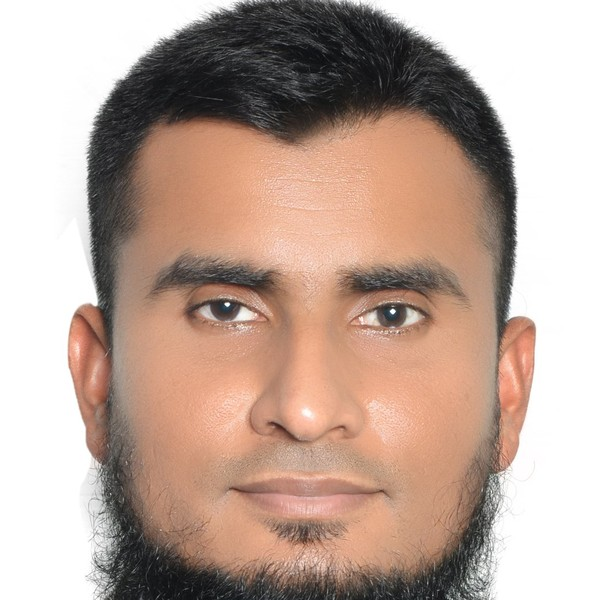
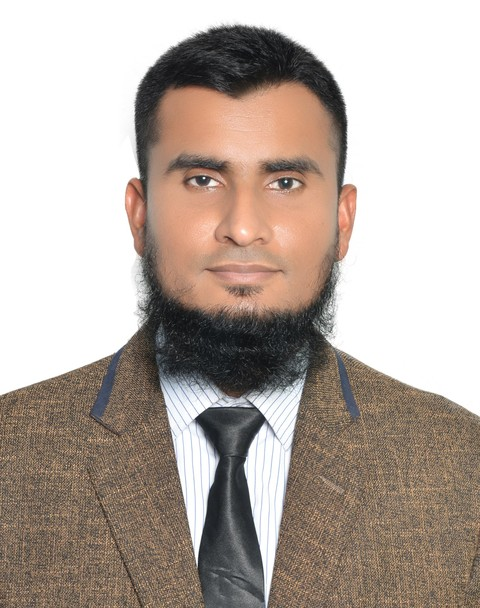
Show full developer photo in portrait frames
Claude-Session: https://claude.ai/code/session_01BS46CpVzowEovSaW9v9832

diff --git a/index.html b/index.html
@@ -62,7 +62,7 @@
 
   <div class="dev-ribbon">
     <div class="in">
-      <img class="avatar" src="assets/img/developer.jpg" alt="এনামুল হক" width="54" height="54" />
+      <img class="avatar" src="assets/img/developer.jpg" alt="এনামুল হক" width="54" height="68" />
       <div>
         <small>ডেভেলপ করেছেন</small>
         <b id="dev-name">এনামুল হক</b>
@@ -325,7 +325,7 @@
   </a>
 
   <footer class="footer">
-    <img class="dev-photo" src="assets/img/developer.jpg" alt="এনামুল হক" width="84" height="84" loading="lazy" />
+    <img class="dev-photo" src="assets/img/developer.jpg" alt="এনামুল হক" width="100" height="127" loading="lazy" />
     <div>ডিজাইন ও ইঞ্জিনিয়ারিং</div>
     <div class="devname">এনামুল হক</div>
     <div>ফুলস্ট্যাক সফটওয়্যার ইঞ্জিনিয়ার</div>

diff --git a/assets/css/style.css b/assets/css/style.css
@@ -818,3 +818,7 @@ body.ai-open .ai-fab, body.retired-print .ai-fab { display: none; }
 .dev-ribbon .dev-fb svg { width: 20px; height: 20px; }
 .dev-ribbon .dev-wa svg { width: 21px; height: 21px; }
 .dev-ribbon span.role { white-space: nowrap; }
+/* ডেভেলপারের পুরো ছবি (খাড়া আয়তাকার, কাটা ছাড়া) */
+.dev-ribbon .avatar { width: 54px; height: 68px; border-radius: 12px; object-fit: cover; object-position: center top; }
+.footer .dev-photo { width: 100px; height: 127px; border-radius: 16px; object-fit: cover; object-position: center top; }
+.rpt .rh .devbox img { width: 36px; height: 46px; border-radius: 6px; object-position: center top; }
